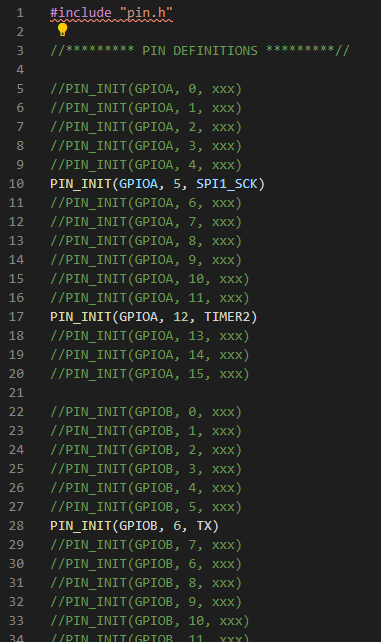
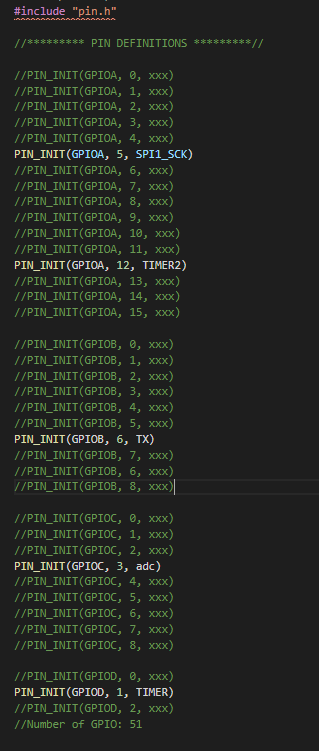
Fix images in readme

Changed region(s): [[0.0282, 0.0, 0.931, 1.0]]

diff --git a/test/CCodeExample/pin.c b/test/CCodeExample/pin.c
@@ -29,13 +29,6 @@ PIN_INIT(GPIOB, 6, TX)
 //PIN_INIT(GPIOB, 7, xxx)
 //PIN_INIT(GPIOB, 6, xxx)
 //PIN_INIT(GPIOB, 8, xxx)
-//PIN_INIT(GPIOB, 9, xxx)
-//PIN_INIT(GPIOB, 10, xxx)
-//PIN_INIT(GPIOB, 11, xxx)
-//PIN_INIT(GPIOB, 12, xxx)
-//PIN_INIT(GPIOB, 13, xxx)
-//PIN_INIT(GPIOB, 14, xxx)
-//PIN_INIT(GPIOB, 15, xxx)
 
 //PIN_INIT(GPIOC, 0, xxx)
 //PIN_INIT(GPIOC, 1, xxx)
@@ -46,13 +39,6 @@ PIN_INIT(GPIOC, 3, adc)
 //PIN_INIT(GPIOC, 6, xxx)
 //PIN_INIT(GPIOC, 7, xxx)
 //PIN_INIT(GPIOC, 8, xxx)
-//PIN_INIT(GPIOC, 9, xxx)
-//PIN_INIT(GPIOC, 10, xxx)
-//PIN_INIT(GPIOC, 11, xxx)
-//PIN_INIT(GPIOC, 12, xxx)
-//PIN_INIT(GPIOC, 13, xxx)
-//PIN_INIT(GPIOC, 14, xxx)
-//PIN_INIT(GPIOC, 15, ADC2)
 
 //PIN_INIT(GPIOD, 0, xxx)
 PIN_INIT(GPIOD, 1, TIMER)

diff --git a/README.md b/README.md
@@ -60,10 +60,13 @@ Run comparator.py script with following arguments passed into:
     python comparator.py "yourMicrocontrollerRefNameInSchematic" "yourCFilename.c" "yourNetlist.xml"
     
 You can also check how that works by running Test.bat file which uses provided exemplary data of C file and KiCad project.
+
 The code view:
+
 ![Alt text](docs/CCodeScreenshot.png?raw=true "Title")
 
 The schematic view:
+
 ![Alt text](docs/KiCadScreenshot.png?raw=true "Title")
 
 The result should be similar to this one:
